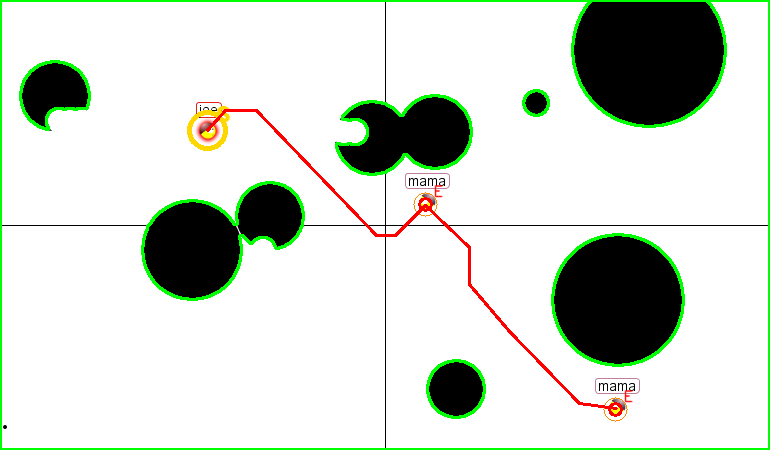
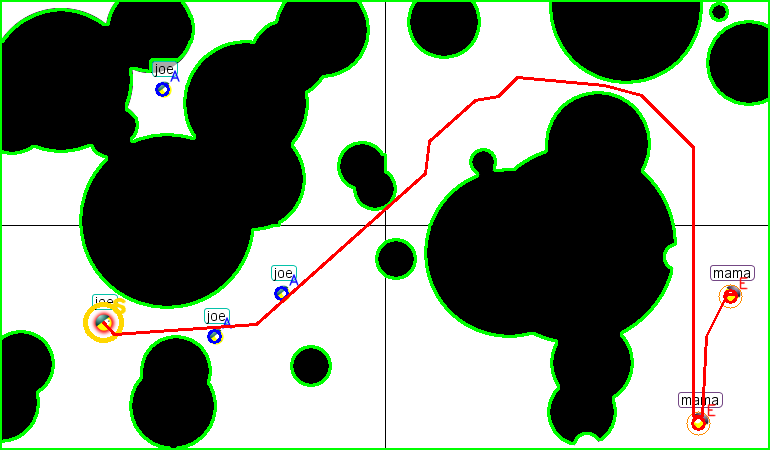
curr

diff --git a/graphwarbot.py b/graphwarbot.py
@@ -45,6 +45,10 @@ HEART_GATE_A    = 80.0
 HEART_GATE_D    = 0.5
 
 BEST_EFFORT_MAX_EXPANSIONS = 120000
+
+# New: “must-cross-enemy” x offsets (units)
+X_PRE_EPS       = 0.35      # aim just before enemy x
+X_POST_EPS      = 0.25      # step just after enemy x
 # --------------------------------------------------
 
 # ---------- capture ----------
@@ -138,7 +142,6 @@ def _remove_axes(mask: np.ndarray) -> np.ndarray:
     return mask
 
 def _keep_by_thickness(shape_mask: np.ndarray, min_thick_px: float=MIN_THICK_PX) -> np.ndarray:
-    # Correct unpack order: num, labels
     num, labels = cv2.connectedComponents(shape_mask)
     keep = np.zeros_like(shape_mask)
     for i in range(1, num):
@@ -159,19 +162,14 @@ def _keep_by_thickness(shape_mask: np.ndarray, min_thick_px: float=MIN_THICK_PX)
     return keep
 
 def obstacle_mask_and_contours(roi_bgr: np.ndarray):
-    """Dark obstacles from HSV V<60, axes removed, labels’ thin strokes erased, thin comps filtered."""
     hsv = cv2.cvtColor(roi_bgr, cv2.COLOR_BGR2HSV)
     v = hsv[:,:,2]
     mask = np.uint8((v < 60) * 255)  # true black fill only
-
-    # Close small holes inside obstacles, but keep kernel tiny so we don't bridge gaps
     mask = cv2.morphologyEx(mask, cv2.MORPH_CLOSE, np.ones((3,3), np.uint8), iterations=1)
     mask = cv2.morphologyEx(mask, cv2.MORPH_OPEN,  np.ones((3,3), np.uint8), iterations=1)
-
     mask = _remove_axes(mask)
     mask = remove_thin_dark_near_labels(mask, roi_bgr, pad=24, dilate=50)
     mask = _keep_by_thickness(mask, MIN_THICK_PX)
-
     contours,_ = cv2.findContours(mask, cv2.RETR_EXTERNAL, cv2.CHAIN_APPROX_SIMPLE)
     clean = np.zeros_like(mask)
     cv2.drawContours(clean, contours, -1, 255, thickness=cv2.FILLED)
@@ -325,7 +323,7 @@ def build_occupancy_and_cost(board: Board, obs_mask: np.ndarray,
     ys = np.arange(board.y_range[0], board.y_range[1]+1e-9, dy)
     free=(obs_mask==0).astype(np.uint8)*255
     dist=cv2.distanceTransform(free, cv2.DIST_L2, 5)
-    dist_norm=dist/dist.max() if dist.max()>0 else dist
+    dist_norm=dist/dist.max() if dist.max() > 0 else dist
     occ=np.zeros((len(ys),len(xs)),dtype=np.uint8)
     cost=np.zeros_like(occ,dtype=np.float32)
     for j,y in enumerate(ys):
@@ -509,20 +507,40 @@ def plan_path(board: Board,
 
     path=[(sx,sy)]; anchors=[0]; curx,cury=sx,sy
     for col in cols:
-        xg=max(p[0] for p in col)
-        remaining=col[:]
+        # representative x of this column
+        xcol = float(np.mean([x for x,_ in col]))
+        x_pre  = xcol - X_PRE_EPS
+        x_post = xcol + X_POST_EPS
+
+        # visit enemies in this column, choosing next by nearest vertical move
+        remaining = col[:]
         while remaining:
             remaining.sort(key=lambda p: abs(p[1]-cury))
-            tx,ty=remaining.pop(0)
-            mask_variants=[obs_mask_main]
-            if obs_mask_loose is not None: mask_variants.append(obs_mask_loose)
-            if shrink_list: mask_variants.extend(shrink_list)
-            seg = try_route_variants(board, mask_variants, (curx,cury), (xg,ty), require_progress=True)
-            if seg:
-                if path: seg=seg[1:]
-                path.extend(seg); anchors.append(len(path)-1)
-                curx,cury=path[-1]
-        # if none worked, this column is skipped
+            ex,ey = remaining.pop(0)
+
+            # 1) try to reach just before the enemy x at the enemy y
+            goal1 = (x_pre, ey)
+            masks = [obs_mask_main]
+            if obs_mask_loose is not None: masks.append(obs_mask_loose)
+            if shrink_list: masks.extend(shrink_list)
+            seg1 = try_route_variants(board, masks, (curx,cury), goal1, require_progress=True)
+
+            if seg1:
+                if path: seg1 = seg1[1:]
+                path.extend(seg1); anchors.append(len(path)-1)
+                curx,cury = path[-1]
+            else:
+                # couldn't get to this one; skip to next in column
+                continue
+
+            # 2) try to step slightly through the column (ensures we cross x_enemy)
+            goal2 = (x_post, cury)
+            seg2 = try_route_variants(board, masks, (curx,cury), goal2, require_progress=False)
+            if seg2:
+                if path: seg2 = seg2[1:]
+                path.extend(seg2); anchors.append(len(path)-1)
+                curx,cury = path[-1]
+
     return path,anchors,dist_safe,obs_mask_main
 
 # ---------- hearts ----------
@@ -648,7 +666,7 @@ def solve_from_bgr(bgr: np.ndarray,
 
 # ---------- cli ----------
 def main():
-    parser = argparse.ArgumentParser(description="Graphwar solver (tag-proof + separate border inflation)")
+    parser = argparse.ArgumentParser(description="Graphwar solver (tag-proof + separate border inflation + enemy pre-goals)")
     parser.add_argument("--xrange", nargs=2, type=float, default=[-25.0, 25.0])
     parser.add_argument("--yrange", nargs=2, type=float, default=[-15.0, 15.0])
     parser.add_argument("--min_area", type=int, default=60)
